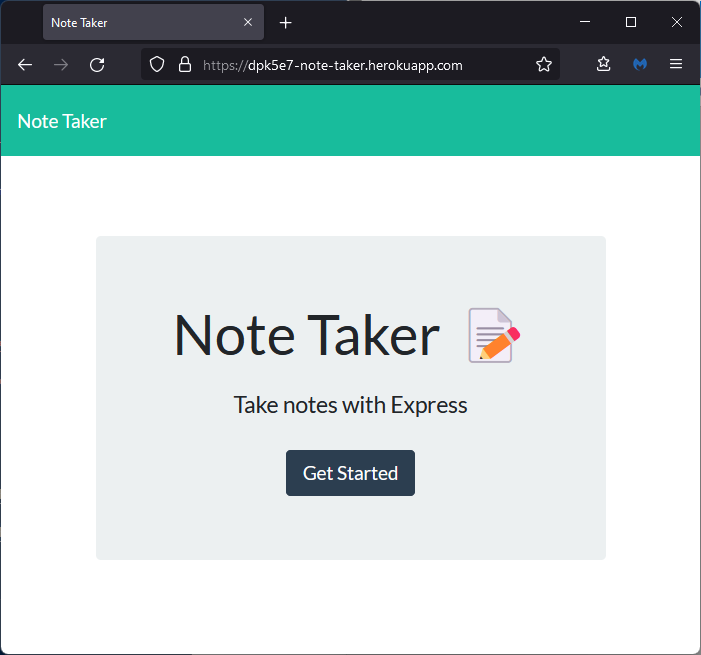
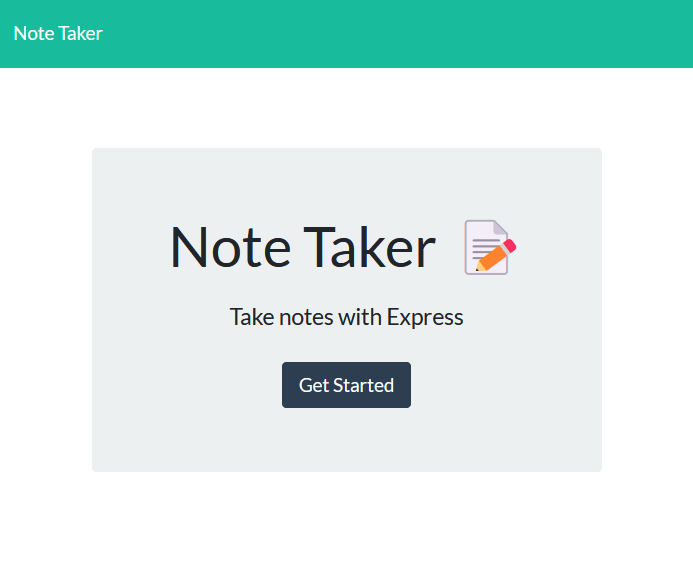
Readme update with screenshots

Changed region(s): [[0.0, 0.0, 1.0, 0.2416], [0.2424, 0.3925, 0.7576, 0.7851], [0.0, 0.9964, 1.0, 1.0]]

diff --git a/README.md b/README.md
@@ -67,8 +67,6 @@ This application is covered under the [MIT License](https://opensource.org/licen
 
 ### Screenshots
 
-UPDATE THIS...............................................
-
 ![Screenshot1](./public/assets/images/screenshot1.png)
 
 ![Screenshot2](./public/assets/images/screenshot2.png)
